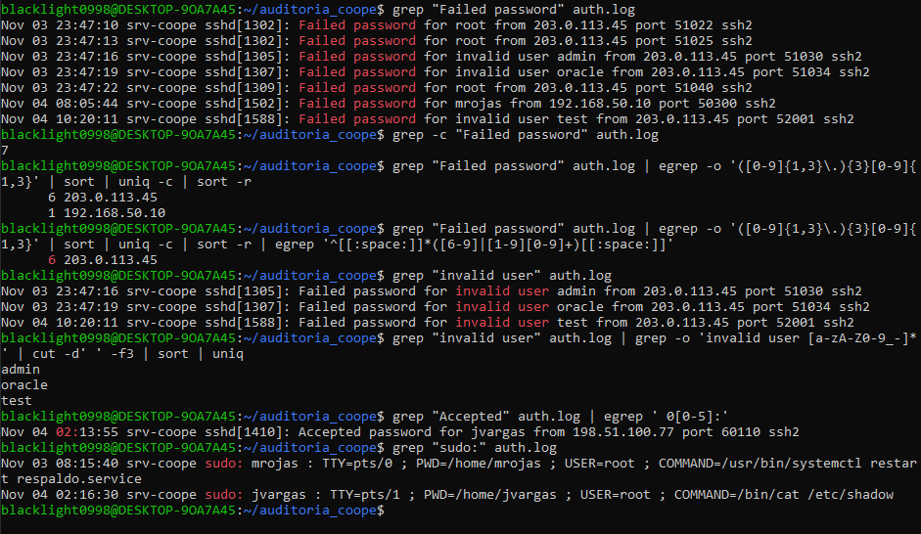
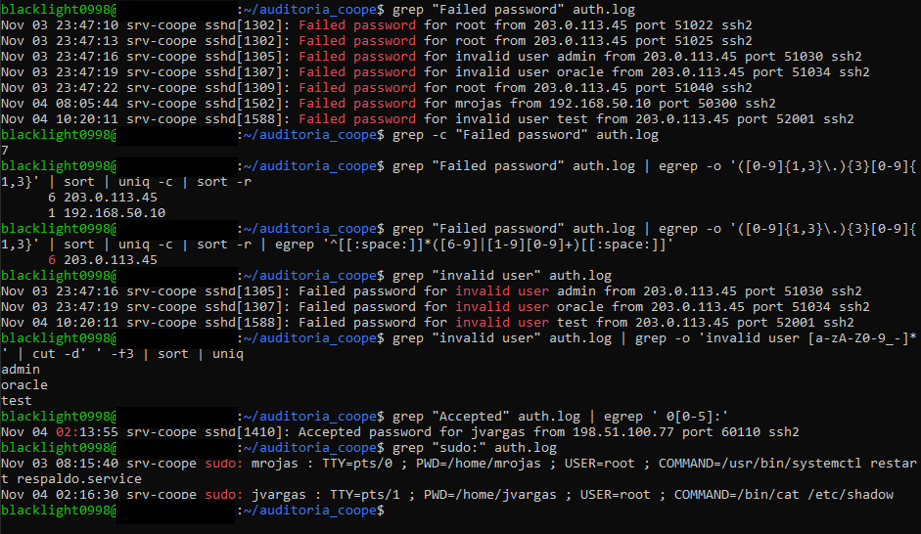
updates

diff --git a/projects/soc-lab/README.md b/projects/soc-lab/README.md
@@ -17,12 +17,11 @@ This is simulated data, not a production incident.
 A long-term homelab in VirtualBox (Windows and Linux) that I am building to practice monitoring and incident investigation. It is an early build. What exists today:
 
 - a SOC alert triage template (v1.0) with sections for evidence, indicators, disposition, ATT&CK mapping and escalation
-- a completed first case, [`BL-ALT-2026-001`](https://github.com/Blacklight0998/Blacklight-Enterprise-Lab/blob/main/incident-response/cases/BL-ALT-2026-001/triage.md): four failed Windows logons (incorrect PIN) that I generated as a test, investigated with the Security log and closed as a Benign Positive
-
-The lab does not have a SIEM deployed yet.
+- an Azure Sentinel SIEM pipeline (Azure Monitor Agent → Log Analytics → Sentinel) with KQL-based detections
+- two closed cases: [`BL-ALT-2026-001`](https://github.com/Blacklight0998/Blacklight-Enterprise-Lab/blob/main/incident-response/cases/BL-ALT-2026-001/triage.md) (four failed Windows logons from an incorrect PIN, investigated with the Security log) and [`BL-ALT-2026-002`](https://github.com/Blacklight0998/Blacklight-Enterprise-Lab/blob/main/incident-response/cases/BL-ALT-2026-002/triage.md) (a simulated RDP brute-force attack, detected end-to-end by a custom Sentinel Analytics Rule)
 
 ## Next steps
 
-- deploy a SIEM and forward Windows and Linux logs to it
 - rewrite the SSH log audit as a triage report using the lab template
+- a third case testing a valid account with a wrong password, to compare against case 002's non-existent-account scenario
 - document more cases with evidence, disposition and ATT&CK mapping only where the evidence supports it
